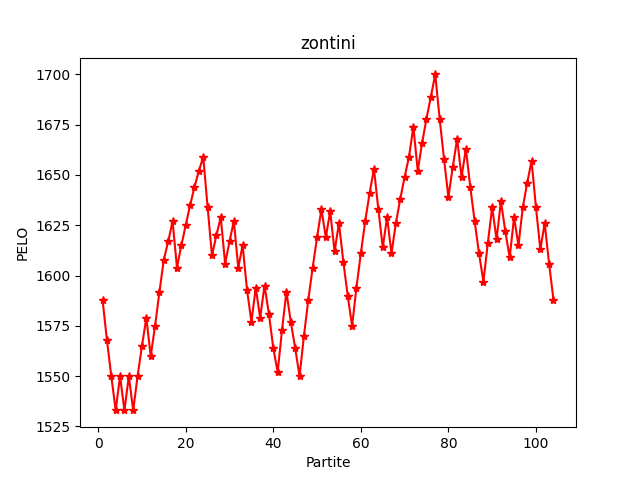
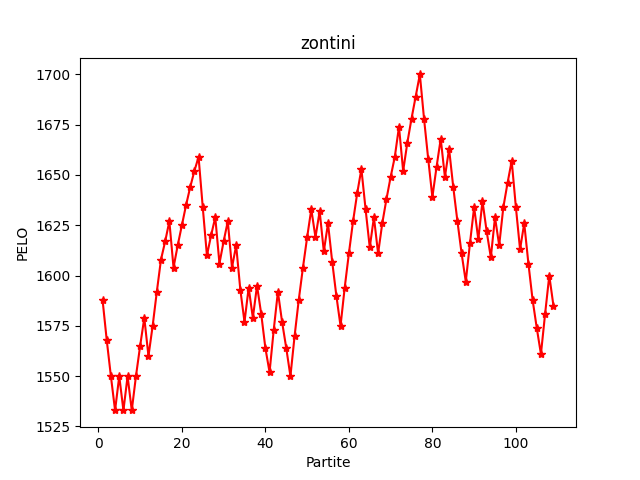
Add files via upload

diff --git a/index.htm b/index.htm
@@ -17,15 +17,6 @@
   <tbody>
     <tr>
       <th>0</th>
-      <td><a href='caprile.png'>caprile</a></td>
-      <td>1676</td>
-      <td>158</td>
-      <td>97</td>
-      <td>1613</td>
-      <td>1391</td>
-    </tr>
-    <tr>
-      <th>1</th>
       <td><a href='devigili.png'>devigili</a></td>
       <td>1646</td>
       <td>11</td>
@@ -34,7 +25,7 @@
       <td>78</td>
     </tr>
     <tr>
-      <th>2</th>
+      <th>1</th>
       <td><a href='turino.png'>turino</a></td>
       <td>1627</td>
       <td>10</td>
@@ -43,7 +34,25 @@
       <td>79</td>
     </tr>
     <tr>
+      <th>2</th>
+      <td><a href='castellani.png'>castellani</a></td>
+      <td>1625</td>
+      <td>387</td>
+      <td>167</td>
+      <td>3573</td>
+      <td>3856</td>
+    </tr>
+    <tr>
       <th>3</th>
+      <td><a href='caprile.png'>caprile</a></td>
+      <td>1621</td>
+      <td>167</td>
+      <td>101</td>
+      <td>1692</td>
+      <td>1485</td>
+    </tr>
+    <tr>
+      <th>4</th>
       <td><a href='malvagi.png'>malvagi</a></td>
       <td>1611</td>
       <td>60</td>
@@ -52,22 +61,13 @@
       <td>574</td>
     </tr>
     <tr>
-      <th>4</th>
-      <td><a href='zontini.png'>zontini</a></td>
-      <td>1588</td>
-      <td>196</td>
-      <td>105</td>
-      <td>1956</td>
-      <td>1871</td>
-    </tr>
-    <tr>
       <th>5</th>
-      <td><a href='castellani.png'>castellani</a></td>
-      <td>1553</td>
-      <td>373</td>
-      <td>159</td>
-      <td>3430</td>
-      <td>3733</td>
+      <td><a href='zontini.png'>zontini</a></td>
+      <td>1585</td>
+      <td>201</td>
+      <td>107</td>
+      <td>2000</td>
+      <td>1920</td>
     </tr>
     <tr>
       <th>6</th>
